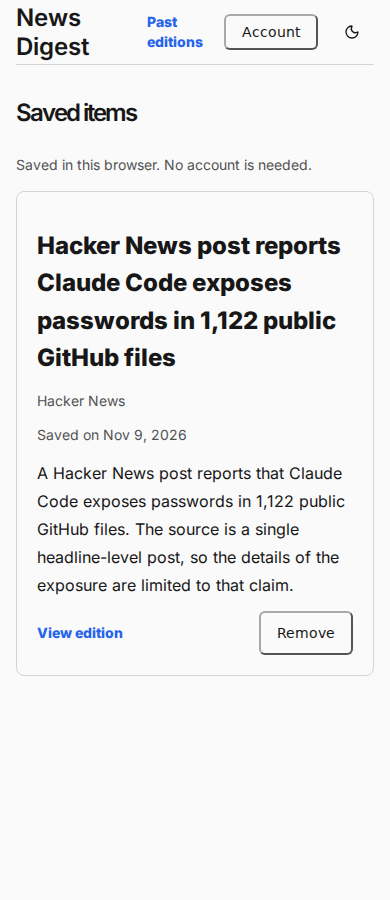
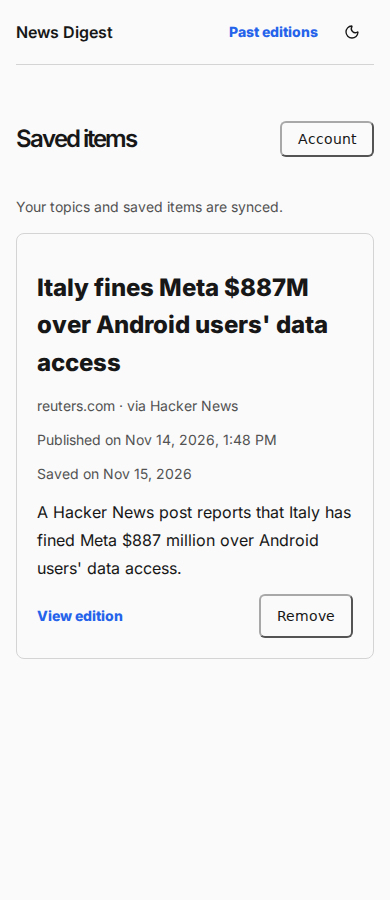
Restore public-mode reader account integration verification

diff --git a/scripts/smoke-reader-account-integration.ts b/scripts/smoke-reader-account-integration.ts
@@ -1,6 +1,10 @@
 // Saved reader content, fixture account transport only; no live account writes.
 import assert from 'node:assert/strict';
 
+import {
+  readerEditionHistorySchema,
+  readerEditionSchema,
+} from '@digest/contracts';
 import { chromium, expect } from 'playwright/test';
 
 import {
@@ -10,9 +14,23 @@ import {
 import { spawnTestServer } from './lib/test-server';
 
 async function main() {
-  const edition = await (
-    await fetch('http://127.0.0.1:8000/api/editions/latest')
-  ).json();
+  const headers = { 'X-Forwarded-For': '192.0.2.165' };
+  const response = await fetch('http://127.0.0.1:8000/api/editions/latest', {
+    headers,
+    redirect: 'error',
+    signal: AbortSignal.timeout(15_000),
+  });
+  assert.equal(response.status, 200, 'public reader latest edition');
+  const edition = readerEditionSchema.parse(await response.json());
+  const historyResponse = await fetch('http://127.0.0.1:8000/api/editions', {
+    headers,
+    redirect: 'error',
+    signal: AbortSignal.timeout(15_000),
+  });
+  assert.equal(historyResponse.status, 200, 'public reader history');
+  const history = readerEditionHistorySchema.parse(
+    await historyResponse.json(),
+  );
   const origin = 'http://127.0.0.1:4188';
   const server = spawnTestServer(
     'pnpm',
@@ -28,7 +46,7 @@ async function main() {
       '--strictPort',
     ],
     {
-      env: { ...process.env, VITE_READER_ACCOUNTS: '1' },
+      env: { ...process.env, VITE_READER_ACCOUNTS: '1', VITE_PUBLIC_MODE: '1' },
       stdio: 'ignore',
       detached: true,
     },
@@ -45,127 +63,131 @@ async function main() {
       await new Promise((resolve) => setTimeout(resolve, 100));
     }
     browser = await chromium.launch();
-    const disabled = await browser.newPage();
-    const accountRequests: string[] = [];
-    await disabled.route('**/*', (route) => {
-      const url = new URL(route.request().url());
-      if (url.pathname.startsWith('/api/account/'))
-        accountRequests.push(url.pathname);
-      return url.origin === 'http://127.0.0.1:8000'
-        ? route.continue()
-        : route.abort();
-    });
-    await disabled.goto('http://127.0.0.1:8000');
-    await expect(
-      disabled.getByRole('link', { name: 'Saved items', exact: true }),
-    ).toBeVisible();
-    await expect(
-      disabled.getByRole('button', { name: 'Account', exact: true }),
-    ).toHaveCount(0);
-    await disabled
-      .getByRole('link', { name: 'Saved items', exact: true })
-      .click();
-    await expect(
-      disabled.getByRole('heading', { name: 'Saved items', exact: true }),
-    ).toBeVisible();
-    await expect(
-      disabled.getByRole('button', { name: 'Account', exact: true }),
-    ).toHaveCount(0);
-    assert.deepEqual(accountRequests, []);
-    await disabled.close();
     for (const width of [1440, 390]) {
-      const page = await browser.newPage({ viewport: { width, height: 900 } });
-      const errors: string[] = [];
-      let signedIn = true;
-      let syncs = 0;
-      page.on('pageerror', (error) => errors.push(error.message));
-      await page.route('**/*', (route) => {
-        const url = new URL(route.request().url());
-        if (url.origin !== origin) return route.abort();
-        if (url.pathname === '/api/editions/latest')
-          return route.fulfill({ json: edition });
-        if (url.pathname === '/api/account/session')
-          return route.fulfill({ json: { signedIn, isAdmin: false } });
-        if (url.pathname === '/api/account/sync') {
-          syncs++;
-          return route.fulfill({ json: route.request().postDataJSON() });
-        }
-        if (
-          url.pathname === '/api/account/logout' ||
-          url.pathname === '/api/account/delete'
-        ) {
-          if (url.pathname.endsWith('/delete'))
-            assert.deepEqual(route.request().postDataJSON(), {
-              confirmation: 'DELETE',
-            });
-          signedIn = false;
-          return route.fulfill({ status: 204 });
-        }
-        if (url.pathname.startsWith('/api/')) return route.abort();
-        return route.continue();
-      });
-      await page.goto(origin);
-      await page.getByRole('button', { name: 'Account', exact: true }).click();
-      await expect(
-        page.getByText('Your topics and saved items are synced.'),
-      ).toBeVisible();
-      assert.ok(syncs > 0);
-      await page.screenshot({
-        path: `docs/screenshots/accounts/reader-header-${width}.png`,
-      });
-      await page.keyboard.press('Escape');
-      await page
-        .getByRole('link', { name: 'Saved items', exact: true })
-        .click();
-      await page.getByRole('button', { name: 'Account', exact: true }).click();
-      await expect(
-        page.getByText('Your topics and saved items are synced.'),
-      ).toBeVisible();
-      await page.getByRole('button', { name: 'Sign out', exact: true }).click();
-      await expect(
-        page.getByRole('link', { name: 'Sign in', exact: true }),
-      ).toBeVisible();
-      assert.equal(
-        await page.evaluate(() =>
-          localStorage.getItem('news-digest.reader-preferences.v1'),
-        ),
-        null,
-      );
-      assert.equal(
-        await page.evaluate(
-          () => document.documentElement.scrollWidth > innerWidth,
-        ),
-        false,
-      );
-      signedIn = true;
-      await page.reload();
-      await page.getByRole('button', { name: 'Account', exact: true }).click();
-      await expect(
-        page.getByText('Your topics and saved items are synced.'),
-      ).toBeVisible();
-      await page
-        .getByRole('button', { name: 'Delete account', exact: true })
-        .click();
-      await page.getByLabel('Type DELETE to confirm').fill('DELETE');
-      await page
-        .getByRole('button', {
-          name: 'Permanently delete account',
-          exact: true,
-        })
-        .click();
-      await expect(
-        page.getByRole('link', { name: 'Sign in', exact: true }),
-      ).toBeVisible();
-      await expect(page.getByLabel('Type DELETE to confirm')).toHaveCount(0);
-      assert.equal(signedIn, false);
-      assert.equal(
-        await page.evaluate(() =>
-          localStorage.getItem('news-digest.reader-preferences.v1'),
-        ),
-        null,
-      );
-      assert.deepEqual(errors, []);
-      await page.close();
+      for (const theme of ['light', 'dark'] as const) {
+        const page = await browser.newPage({
+          viewport: { width, height: 900 },
+          colorScheme: theme,
+        });
+        const errors: string[] = [];
+        let signedIn = true;
+        let syncs = 0;
+        page.on('pageerror', (error) => errors.push(error.message));
+        await page.route('**/*', (route) => {
+          const url = new URL(route.request().url());
+          if (url.origin !== origin) return route.abort();
+          if (url.pathname === '/api/editions')
+            return route.fulfill({ json: history });
+          if (url.pathname === '/api/editions/latest')
+            return route.fulfill({ json: edition });
+          if (url.pathname === '/api/account/session') {
+            assert.equal(route.request().method(), 'GET');
+            return route.fulfill({ json: { signedIn, isAdmin: false } });
+          }
+          if (url.pathname === '/api/account/sync') {
+            assert.equal(route.request().method(), 'POST');
+            syncs++;
+            return route.fulfill({ json: route.request().postDataJSON() });
+          }
+          if (
+            url.pathname === '/api/account/logout' ||
+            url.pathname === '/api/account/delete'
+          ) {
+            assert.equal(route.request().method(), 'POST');
+            if (url.pathname.endsWith('/delete'))
+              assert.deepEqual(route.request().postDataJSON(), {
+                confirmation: 'DELETE',
+              });
+            signedIn = false;
+            return route.fulfill({ status: 204 });
+          }
+          if (url.pathname.startsWith('/api/')) {
+            assert.fail(
+              `Unexpected fixture API request: ${route.request().method()} ${url.pathname}`,
+            );
+          }
+          return route.continue();
+        });
+        await page.goto(origin);
+        await expect(
+          page.getByRole('link', { name: 'Admin', exact: true }),
+        ).toHaveCount(0);
+        await page
+          .getByRole('button', { name: 'Account', exact: true })
+          .click();
+        await expect(
+          page
+            .getByRole('dialog', { name: 'Your account' })
+            .getByRole('status'),
+        ).toHaveText('Your topics and saved items are synced.');
+        assert.ok(syncs > 0);
+        await page.screenshot({
+          path: `docs/screenshots/accounts/reader-header-${width}${theme === 'dark' ? '-dark' : ''}.png`,
+        });
+        await page.keyboard.press('Escape');
+        await page
+          .getByRole('link', { name: 'Saved items', exact: true })
+          .click();
+        await page
+          .getByRole('button', { name: 'Account', exact: true })
+          .click();
+        await expect(
+          page
+            .getByRole('dialog', { name: 'Your account' })
+            .getByRole('status'),
+        ).toHaveText('Your topics and saved items are synced.');
+        await page
+          .getByRole('button', { name: 'Sign out', exact: true })
+          .click();
+        await expect(
+          page.getByRole('link', { name: 'Sign in', exact: true }),
+        ).toBeVisible();
+        assert.equal(
+          await page.evaluate(() =>
+            localStorage.getItem('news-digest.reader-preferences.v1'),
+          ),
+          null,
+        );
+        assert.equal(
+          await page.evaluate(
+            () => document.documentElement.scrollWidth > innerWidth,
+          ),
+          false,
+        );
+        signedIn = true;
+        await page.reload();
+        await page
+          .getByRole('button', { name: 'Account', exact: true })
+          .click();
+        await expect(
+          page
+            .getByRole('dialog', { name: 'Your account' })
+            .getByRole('status'),
+        ).toHaveText('Your topics and saved items are synced.');
+        await page
+          .getByRole('button', { name: 'Delete account', exact: true })
+          .click();
+        await page.getByLabel('Type DELETE to confirm').fill('DELETE');
+        await page
+          .getByRole('button', {
+            name: 'Permanently delete account',
+            exact: true,
+          })
+          .click();
+        await expect(
+          page.getByRole('link', { name: 'Sign in', exact: true }),
+        ).toBeVisible();
+        await expect(page.getByLabel('Type DELETE to confirm')).toHaveCount(0);
+        assert.equal(signedIn, false);
+        assert.equal(
+          await page.evaluate(() =>
+            localStorage.getItem('news-digest.reader-preferences.v1'),
+          ),
+          null,
+        );
+        assert.deepEqual(errors, []);
+        await page.close();
+      }
     }
     // Separate browser contexts model two devices; only the fixture server is shared.
     let shared: ReaderSyncState = {
@@ -181,6 +203,8 @@ async function main() {
         await page.route('**/*', (route) => {
           const url = new URL(route.request().url());
           if (url.origin !== origin) return route.abort();
+          if (url.pathname === '/api/editions')
+            return route.fulfill({ json: history });
           if (url.pathname === '/api/editions/latest')
             return route.fulfill({ json: edition });
           if (url.pathname === '/api/account/session')
@@ -200,8 +224,8 @@ async function main() {
     const waitForSync = async (page: typeof desktop) => {
       await page.getByRole('button', { name: 'Account', exact: true }).click();
       await expect(
-        page.getByText('Your topics and saved items are synced.'),
-      ).toBeVisible();
+        page.getByRole('dialog', { name: 'Your account' }).getByRole('status'),
+      ).toHaveText('Your topics and saved items are synced.');
       await page.keyboard.press('Escape');
     };
     const save = desktop.getByRole('button', { name: /^Save story:/ }).first();

diff --git a/PROGRESS.md b/PROGRESS.md
@@ -96,3 +96,14 @@ Older entries: [earlier Nov 15](docs/progress-archive/2026-11-15-before-2346.md)
 - `pnpm format`, `pnpm lint:fix`, `VITE_PUBLIC_MODE=1 pnpm build` pass. Full check initially ended with signal 143 during integration after 1,040 unit passes; transient systemd rerun passes 1,040 unit/329 integration tests, four expected skips. `git diff --check` passes. Receipt `/tmp/2357-check-final.log`.
 - Due metrics sample at 07:25: 24 healthy rules, no new failures; since prior sample 58 small merges/1,631,768 rows, no big merge. Recovery still open; next probe ≥08:26 UTC. Receipt `/tmp/2357-metrics.json`.
 - API restarted for public build; health and all 38 sources pass afterward. Public mode ON, VM private. Next: 15:00 UTC publication/access acceptance and separate editorial recovery review.
+
+## 2026-11-15: iteration 2358 — restore public-mode account integration verification
+
+- Clean main at ad66f930; no inherited work. Alerts zero; health/database/Redis and all 38 enabled sources pass (`/tmp/2358-sources.log`).
+- Reader verification weakness: account integration failed parsing an admission refusal, leaving sign-out/deletion and cross-device saved items unverified after public activation. Reproduced in `/tmp/2358-before.log`.
+- Replay now reads saved public edition/history with an explicit test visitor, checks HTTP status/contracts, and runs the public-mode UI with fixture account transport. Removed the obsolete assertion that deployed accounts are disabled.
+- Scoped sync assertions to the account dialog (the saved page also announces sync); reject unexpected fixture API requests and check account HTTP methods. Browser traffic stays isolated from live account writes/external services.
+- `pnpm exec tsx scripts/smoke-reader-account-integration.ts` passes desktop/mobile light/dark sign-out, deletion/cleared preferences, no admin link, and two-device save/remove/tombstone persistence. Refreshed five screenshots; inspected mobile dark. Receipt `/tmp/2358-browser.log`.
+- `pnpm format`, `pnpm lint:fix`, full `pnpm check` and `git diff --check` pass: 1,040 unit/329 integration passes, four expected skips. Initial shell verification ended 143 during formatting; transient user-service rerun exited 0. Receipts `/tmp/2358-{format,lint,check}.log`.
+- Runtime/config unchanged; no restart under STEERING 22. Public mode ON, VM private. No paid calls or source/editorial/budget/sharing changes.
+- Next: metrics probe ≥08:26 UTC; 15:00 UTC scheduled publication/access gate and separate editorial recovery review.

diff --git a/TASKS.md b/TASKS.md
@@ -62,6 +62,8 @@ Fix failures first. STEERING Current order wins. Complete pre-compaction detail 
 
 ## Latest completed steps
 
+- [x] 2358: restored public-mode account integration replay; desktop/mobile light/dark sign-out/deletion and two-device saved-story removal sync pass with fixture account transport.
+
 - [x] 2357: post Save controls identify X/Bluesky/Reddit and use readable local publication times in screen-reader labels, preserving author/time distinctions.
 
 - [x] 2356: restored saved-item browser verification in public mode, including account keyboard order, post context/publication dates, cross-tab removal and historical edition jumps.
